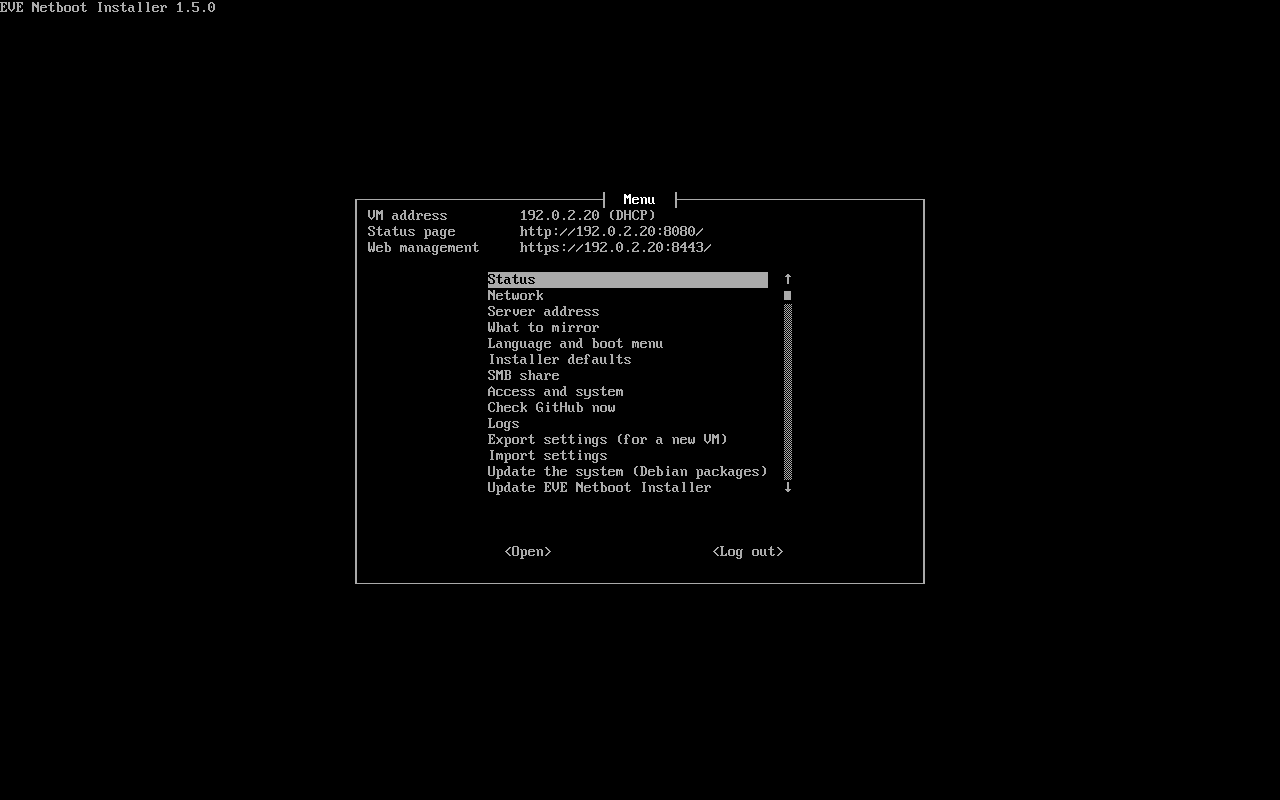
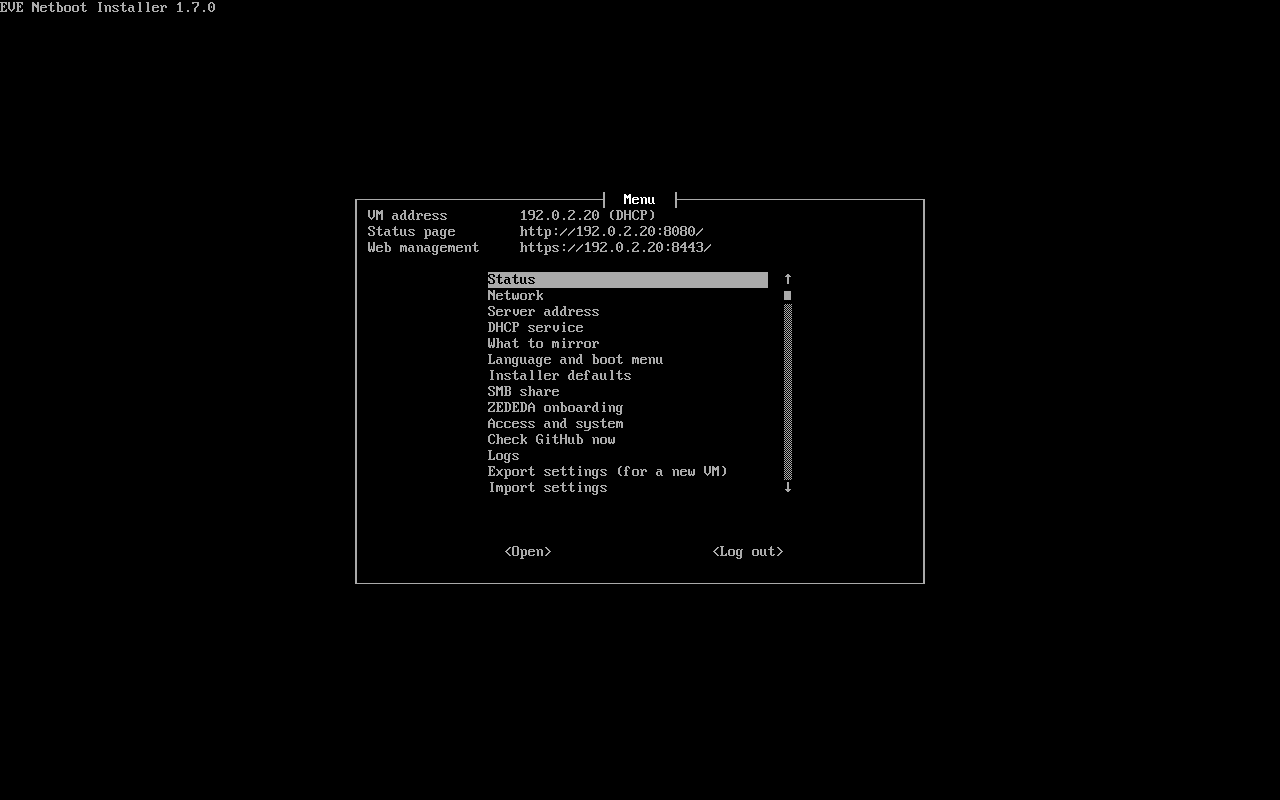
docs(images): console screenshots of the current appliance
console-status.png and console-menu.png again from the current appliance
(the menu with DHCP service and ZEDEDA onboarding), and console-zededa.png:
the ZEDEDA onboarding screen of the console. Documentation network.

Changed region(s): [[0.375, 0.4062, 0.5938, 0.625]]

diff --git a/vm/README.md b/vm/README.md
@@ -458,7 +458,9 @@ for which you have to know which soft serial ended up on which machine. Here:
    creates and deletes one test node
    ([how](../docs/design/zededa-onboarding.md#checking-a-zededa-user)).
 
-![ZEDEDA onboarding in the web management](../docs/images/web-zededa.png)
+| Web management | Console menu |
+|---|---|
+| ![ZEDEDA onboarding in the web management](../docs/images/web-zededa.png) | ![ZEDEDA onboarding in the console](../docs/images/console-zededa.png) |
 
 **Each time you install machines:**
 
